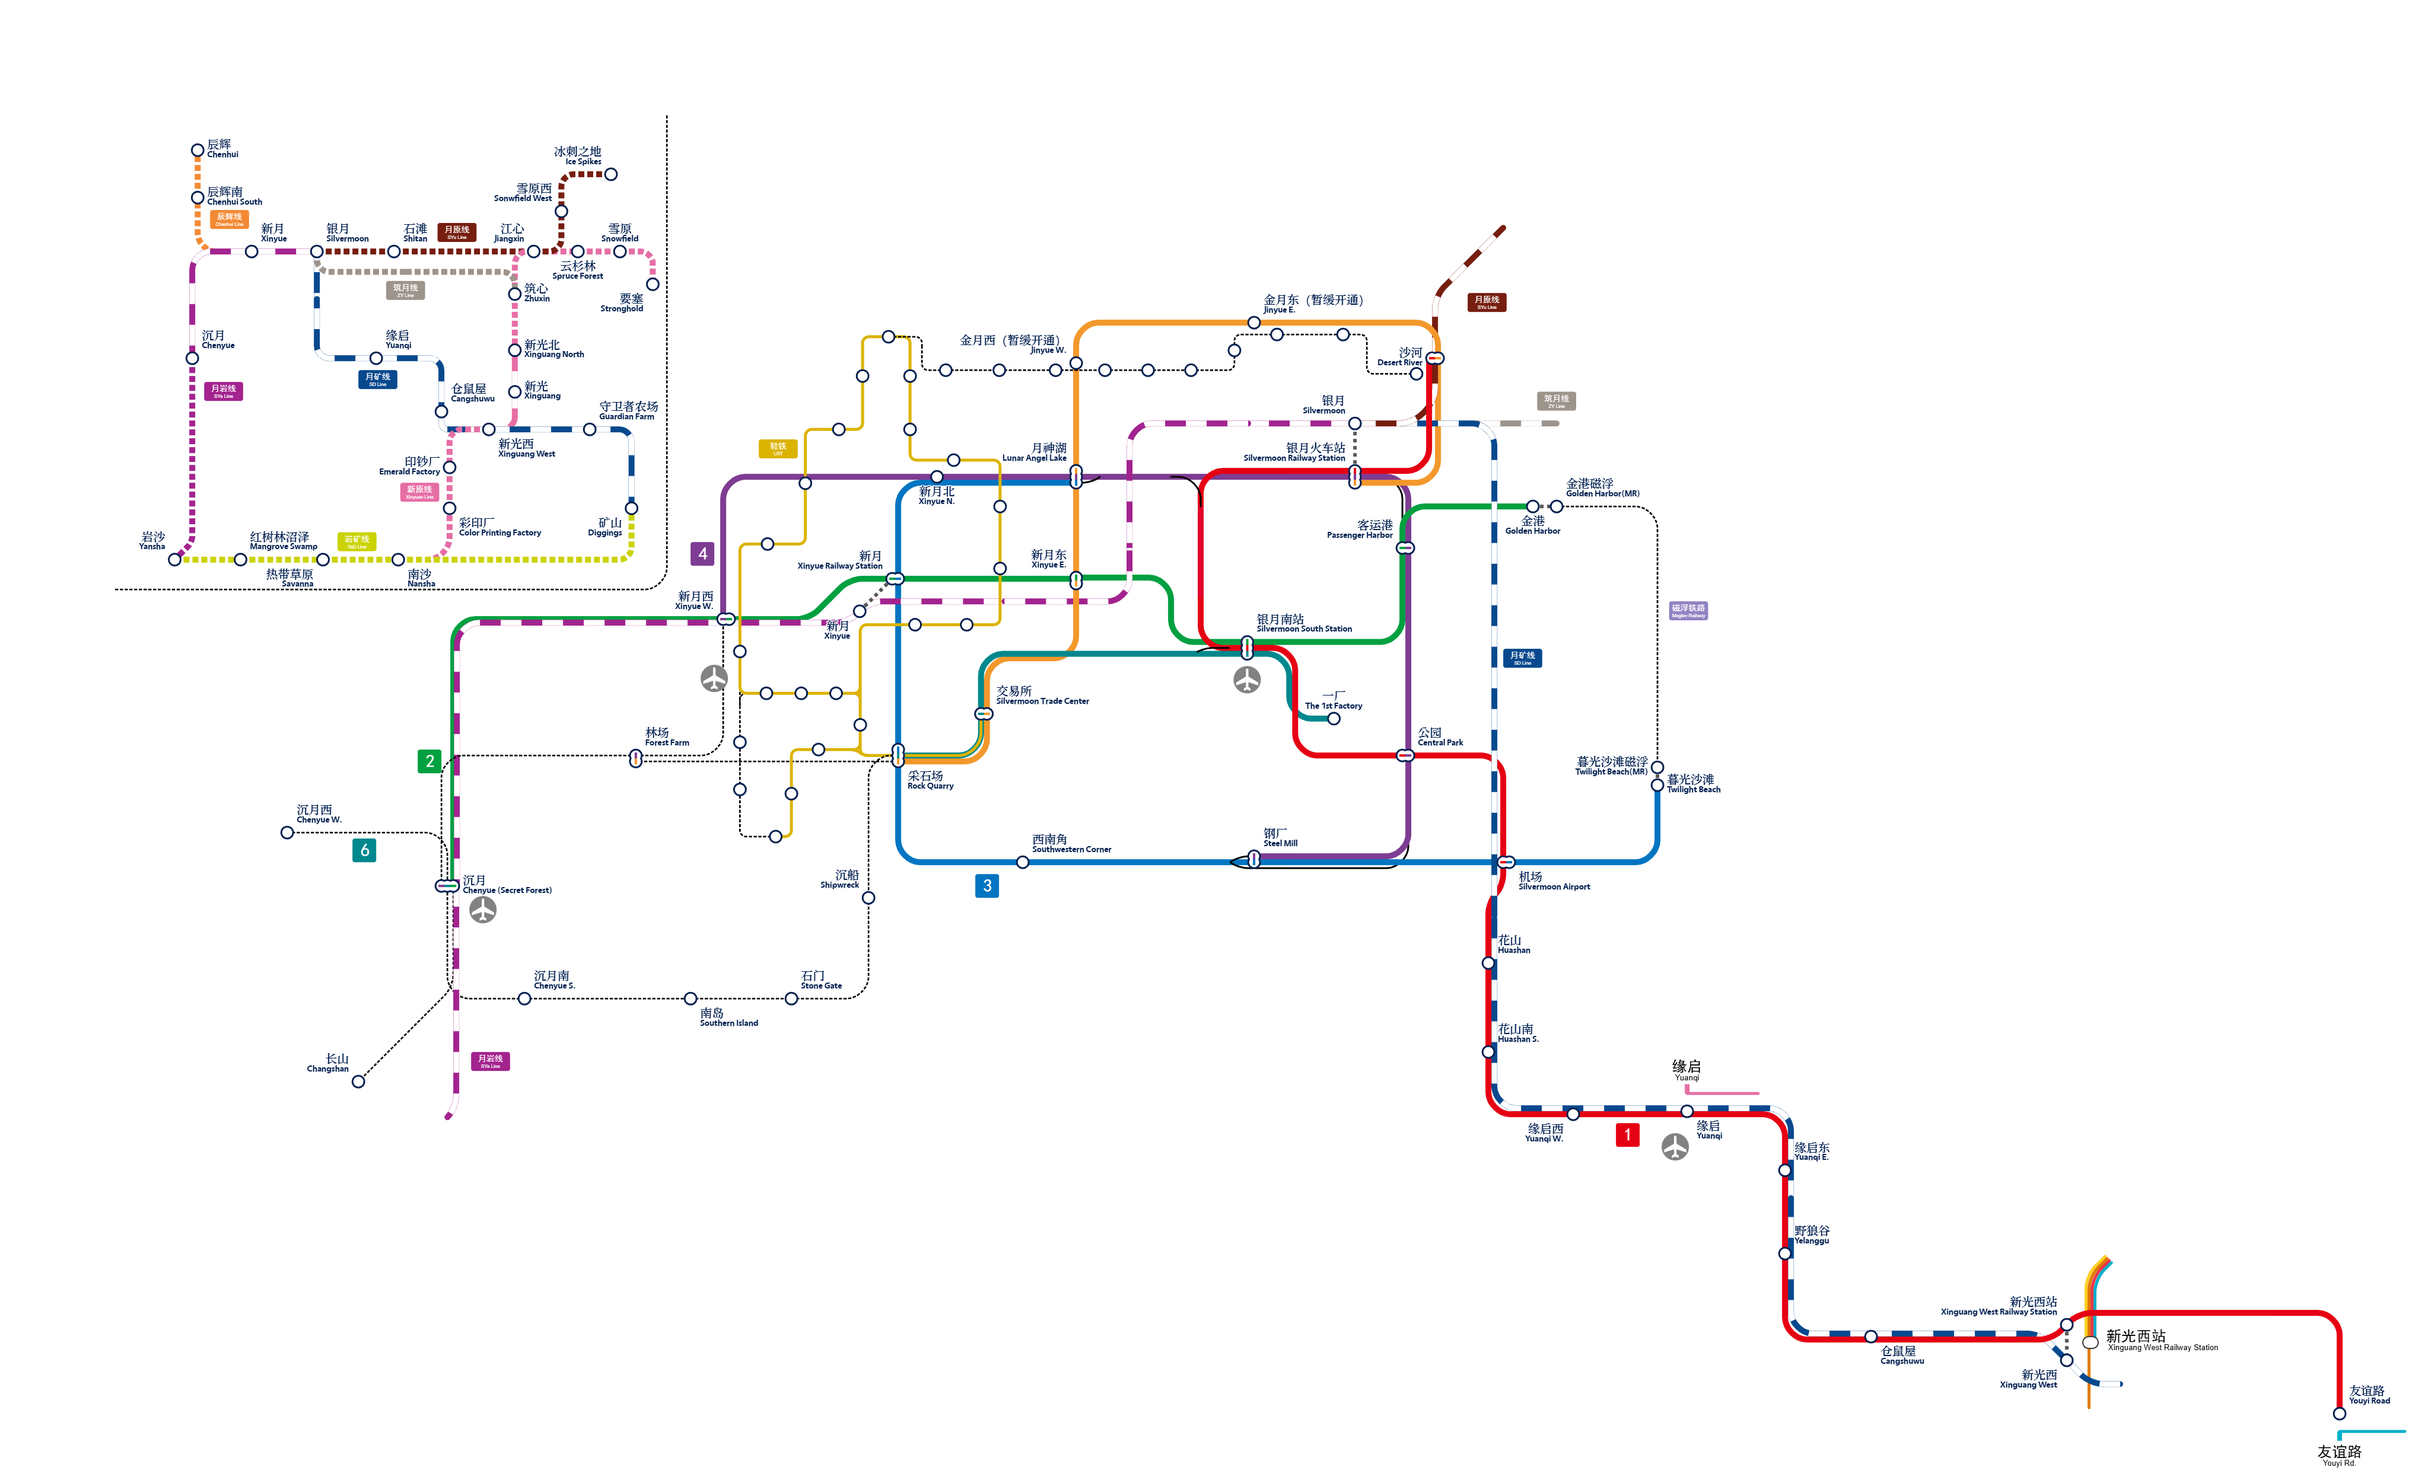
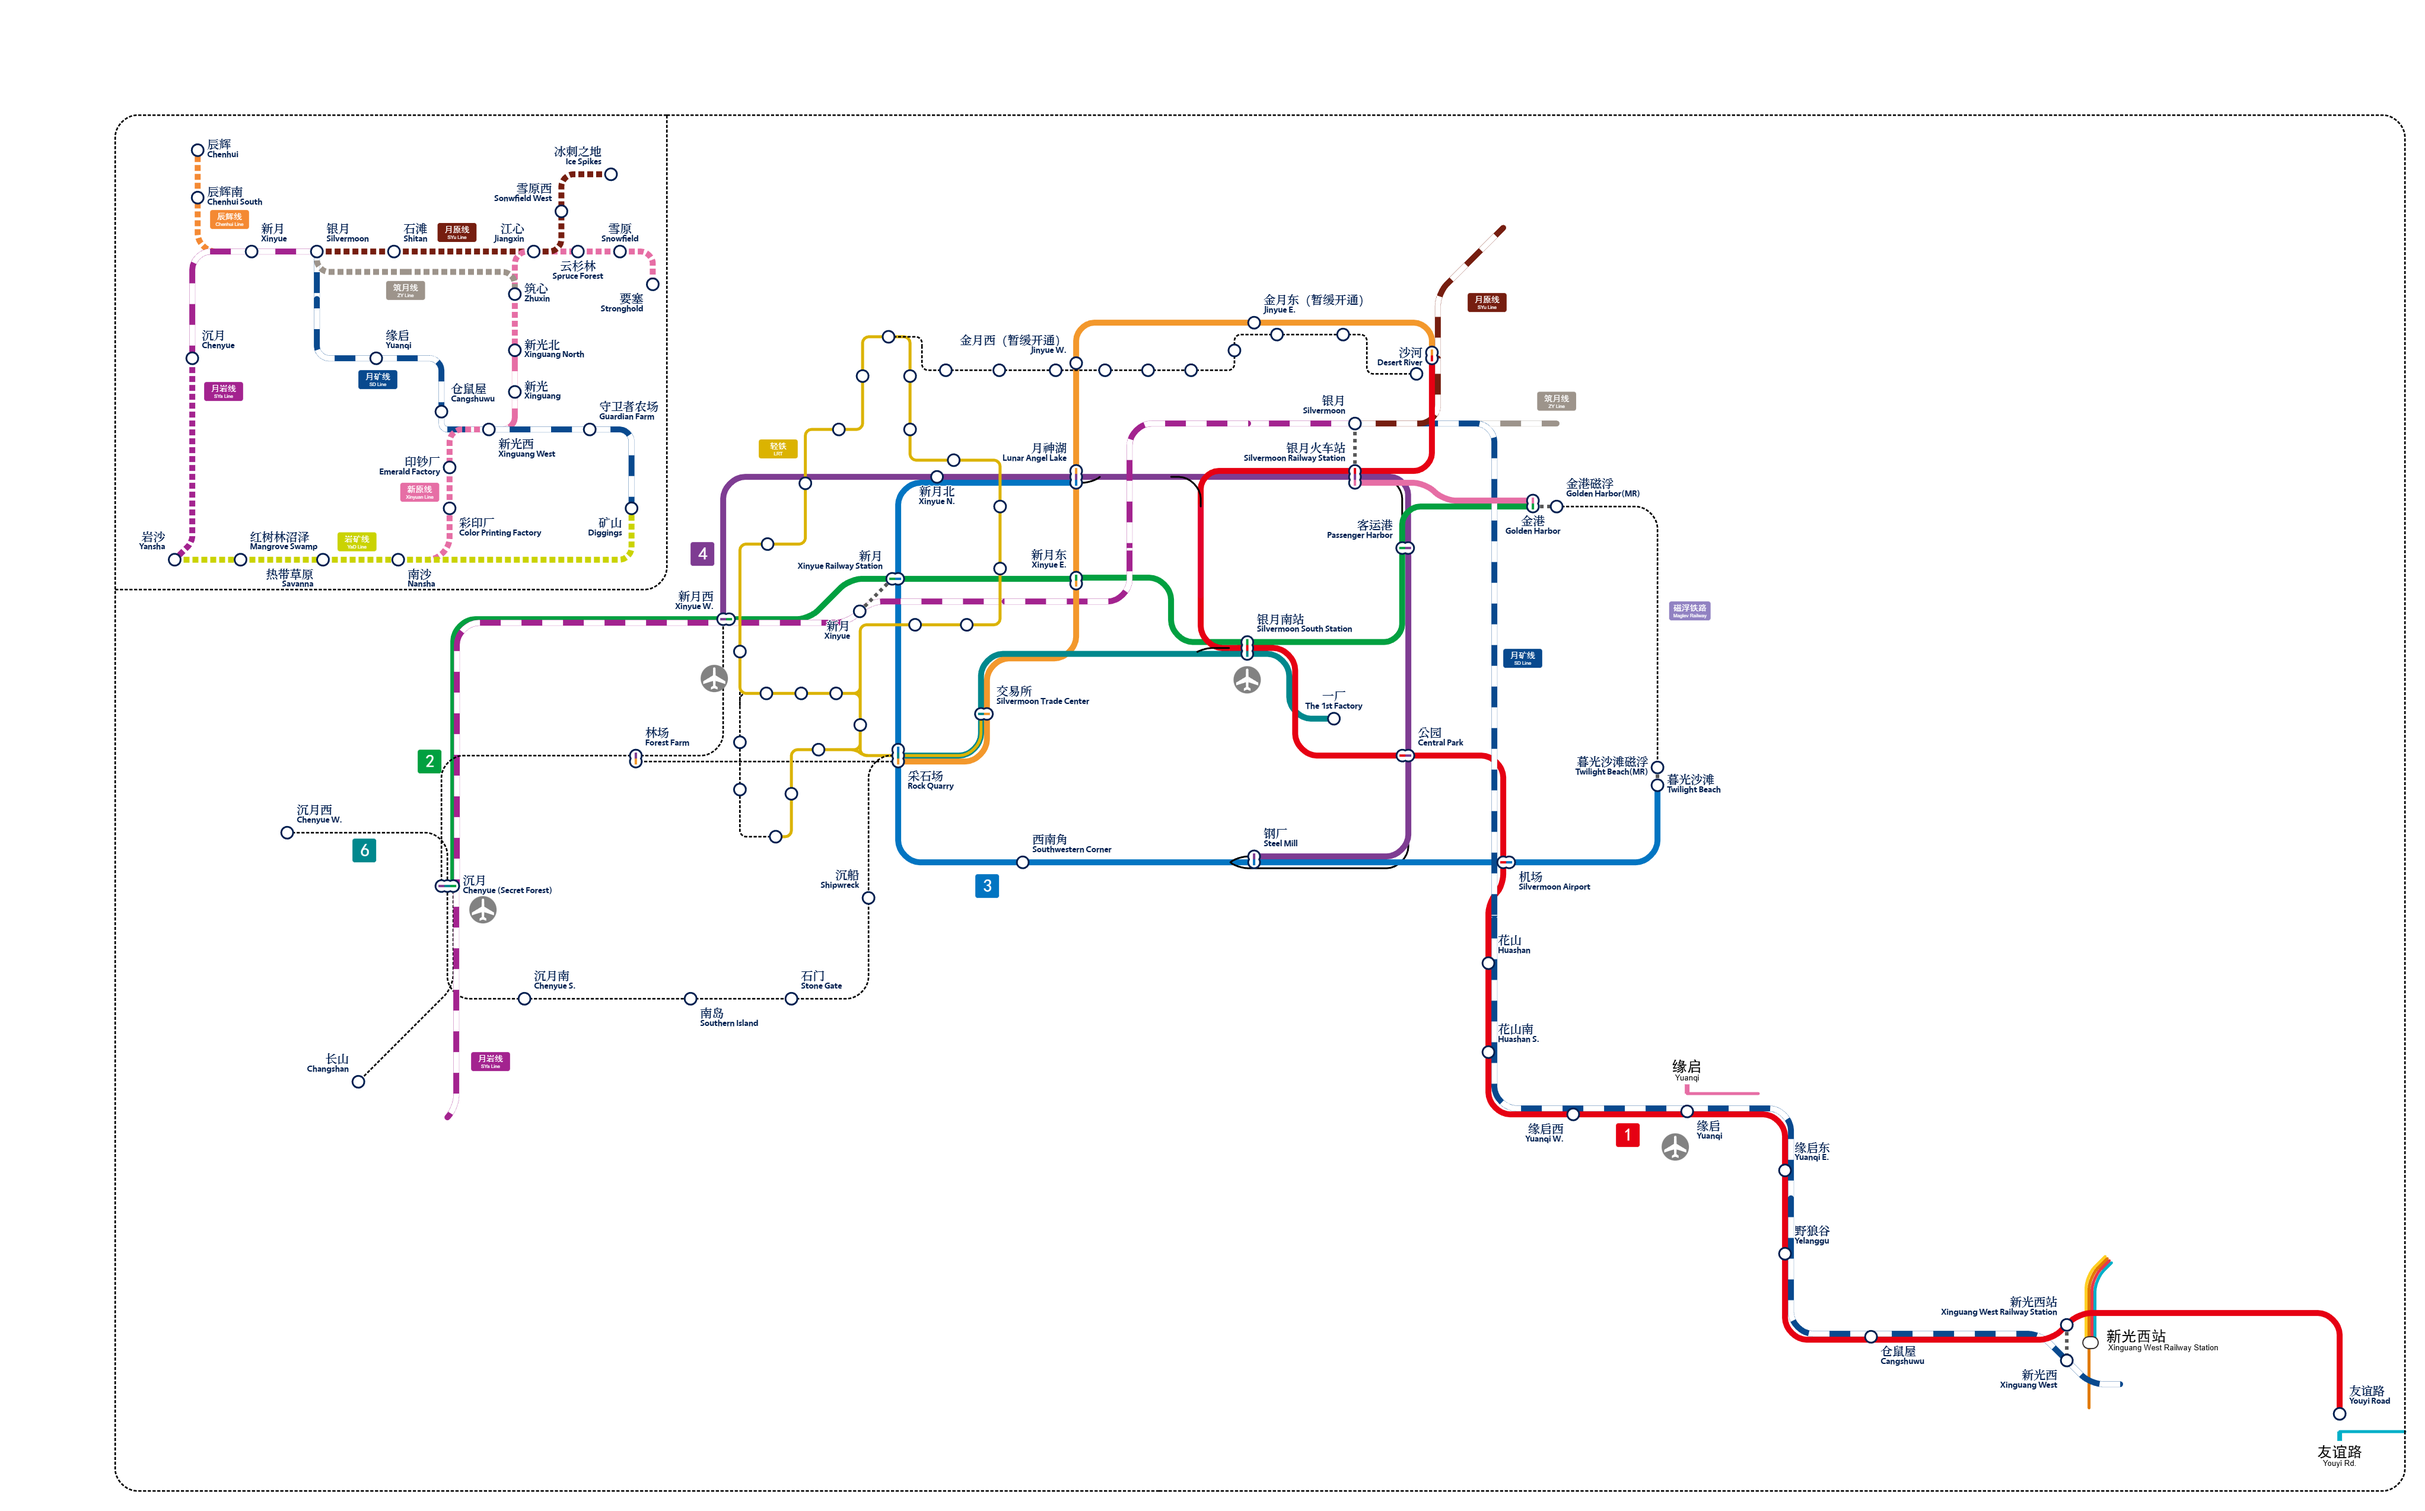
银月7号线开通

diff --git a/docs/servers/SurvivalIII/railway_transit/silvermoon.md b/docs/servers/SurvivalIII/railway_transit/silvermoon.md
@@ -23,8 +23,9 @@ description: 了解银月地铁迅猛发展的背后。
 - **2 号线**：金港 — 长山，「新月（不含） — 长山（不含）」段贯通国铁月岩线，共 8 站；
 - **3 号线**：月神湖北 — 暮光沙滩，「南门 — 月神湖北」段与 4 号线建设联络线成环线，共 7 站；
 - **4 号线**：南门 — 沉月，「月神湖北 — 南门」段与 3 号线建设联络线成环线，共 9 站;
-- **5 号线**：银月火车站 — 林场，「银月火车站 — 新月（不含）」段贯通国铁月原线，共 9 站；
-- **6 号线**：沉月西 — 一厂，单线（仅银月南站前后与 1 号线共线部分为复线），共 10 站。
+- **5 号线**：沙河 — 林场，共 8 站；
+- **6 号线**：沉月西 — 一厂，单线（仅银月南站前后与 1 号线共线部分为复线），共 10 站；
+- **7 号线**：银月火车站-金港，单线，共 2 站。
 - **新月轻铁**：连接新月各个新城的单线铁路，目前三期建设共 20 站，通过联络线接轨 6 号线并贯通运营「采石场 — 交易所」段。
 
 另外远期计划建设一条连接金港和暮光沙滩的磁悬浮铁路（具体的建设风格待定）。

diff --git a/docs/servers/SurvivalIII/railway_transit/history.md b/docs/servers/SurvivalIII/railway_transit/history.md
@@ -82,3 +82,5 @@ description: 了解主世界铁路庞大网络的过往。
 | 25.10.06 | 城际铁路 | 银月站改造及站台移动 | 待后续计算 | 待后续计算 |
 | 25.10.18 | 银月 1 号线 | 在月矿线上增设地铁专用站四座 | - | - |
 | 25.10.24 | 银月 1 号线 | 仓鼠屋 - 友谊路 开通运营 | 待后续计算 | 待后续计算 |
+| 25.10.28 | 银月地铁 | 5 号线银月火车站 - 沙河 终止运营，1 号线、5 号线贯通运营 | 待后续计算 | 待后续计算 |
+| 25.10.28 | 银月 7 号线 | 银月火车站 - 金港 开通运营 | 待后续计算 | 待后续计算 |
